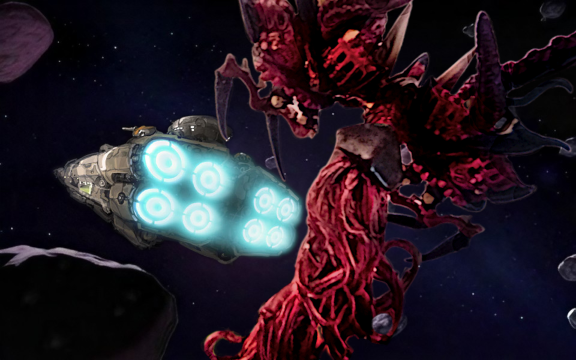
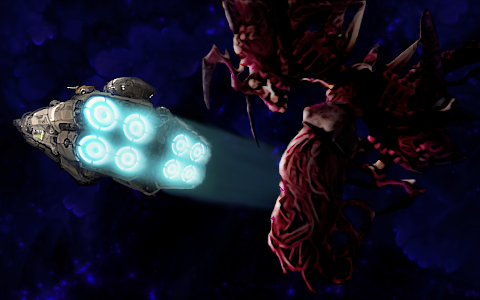
feat: nicer pursuit illustration

diff --git a/src/tecrys/svc/world/fleets/HunterFleets.kt b/src/tecrys/svc/world/fleets/HunterFleets.kt
@@ -25,7 +25,7 @@ val largeHunterFleetRolesQuantity = mapOf(
     "combatEliteSmallEvolved" to 1,
     "combatEliteMedium" to 3,
     "combatEliteMediumEvolved" to 3,
-    "ScoliacMiniBoss" to 2,
+    "ScoliacMiniBoss" to 1,
 )
 
 val smallHunterFleet = HunterFleetConfig(smallHunterFleetRolesQuantity,
